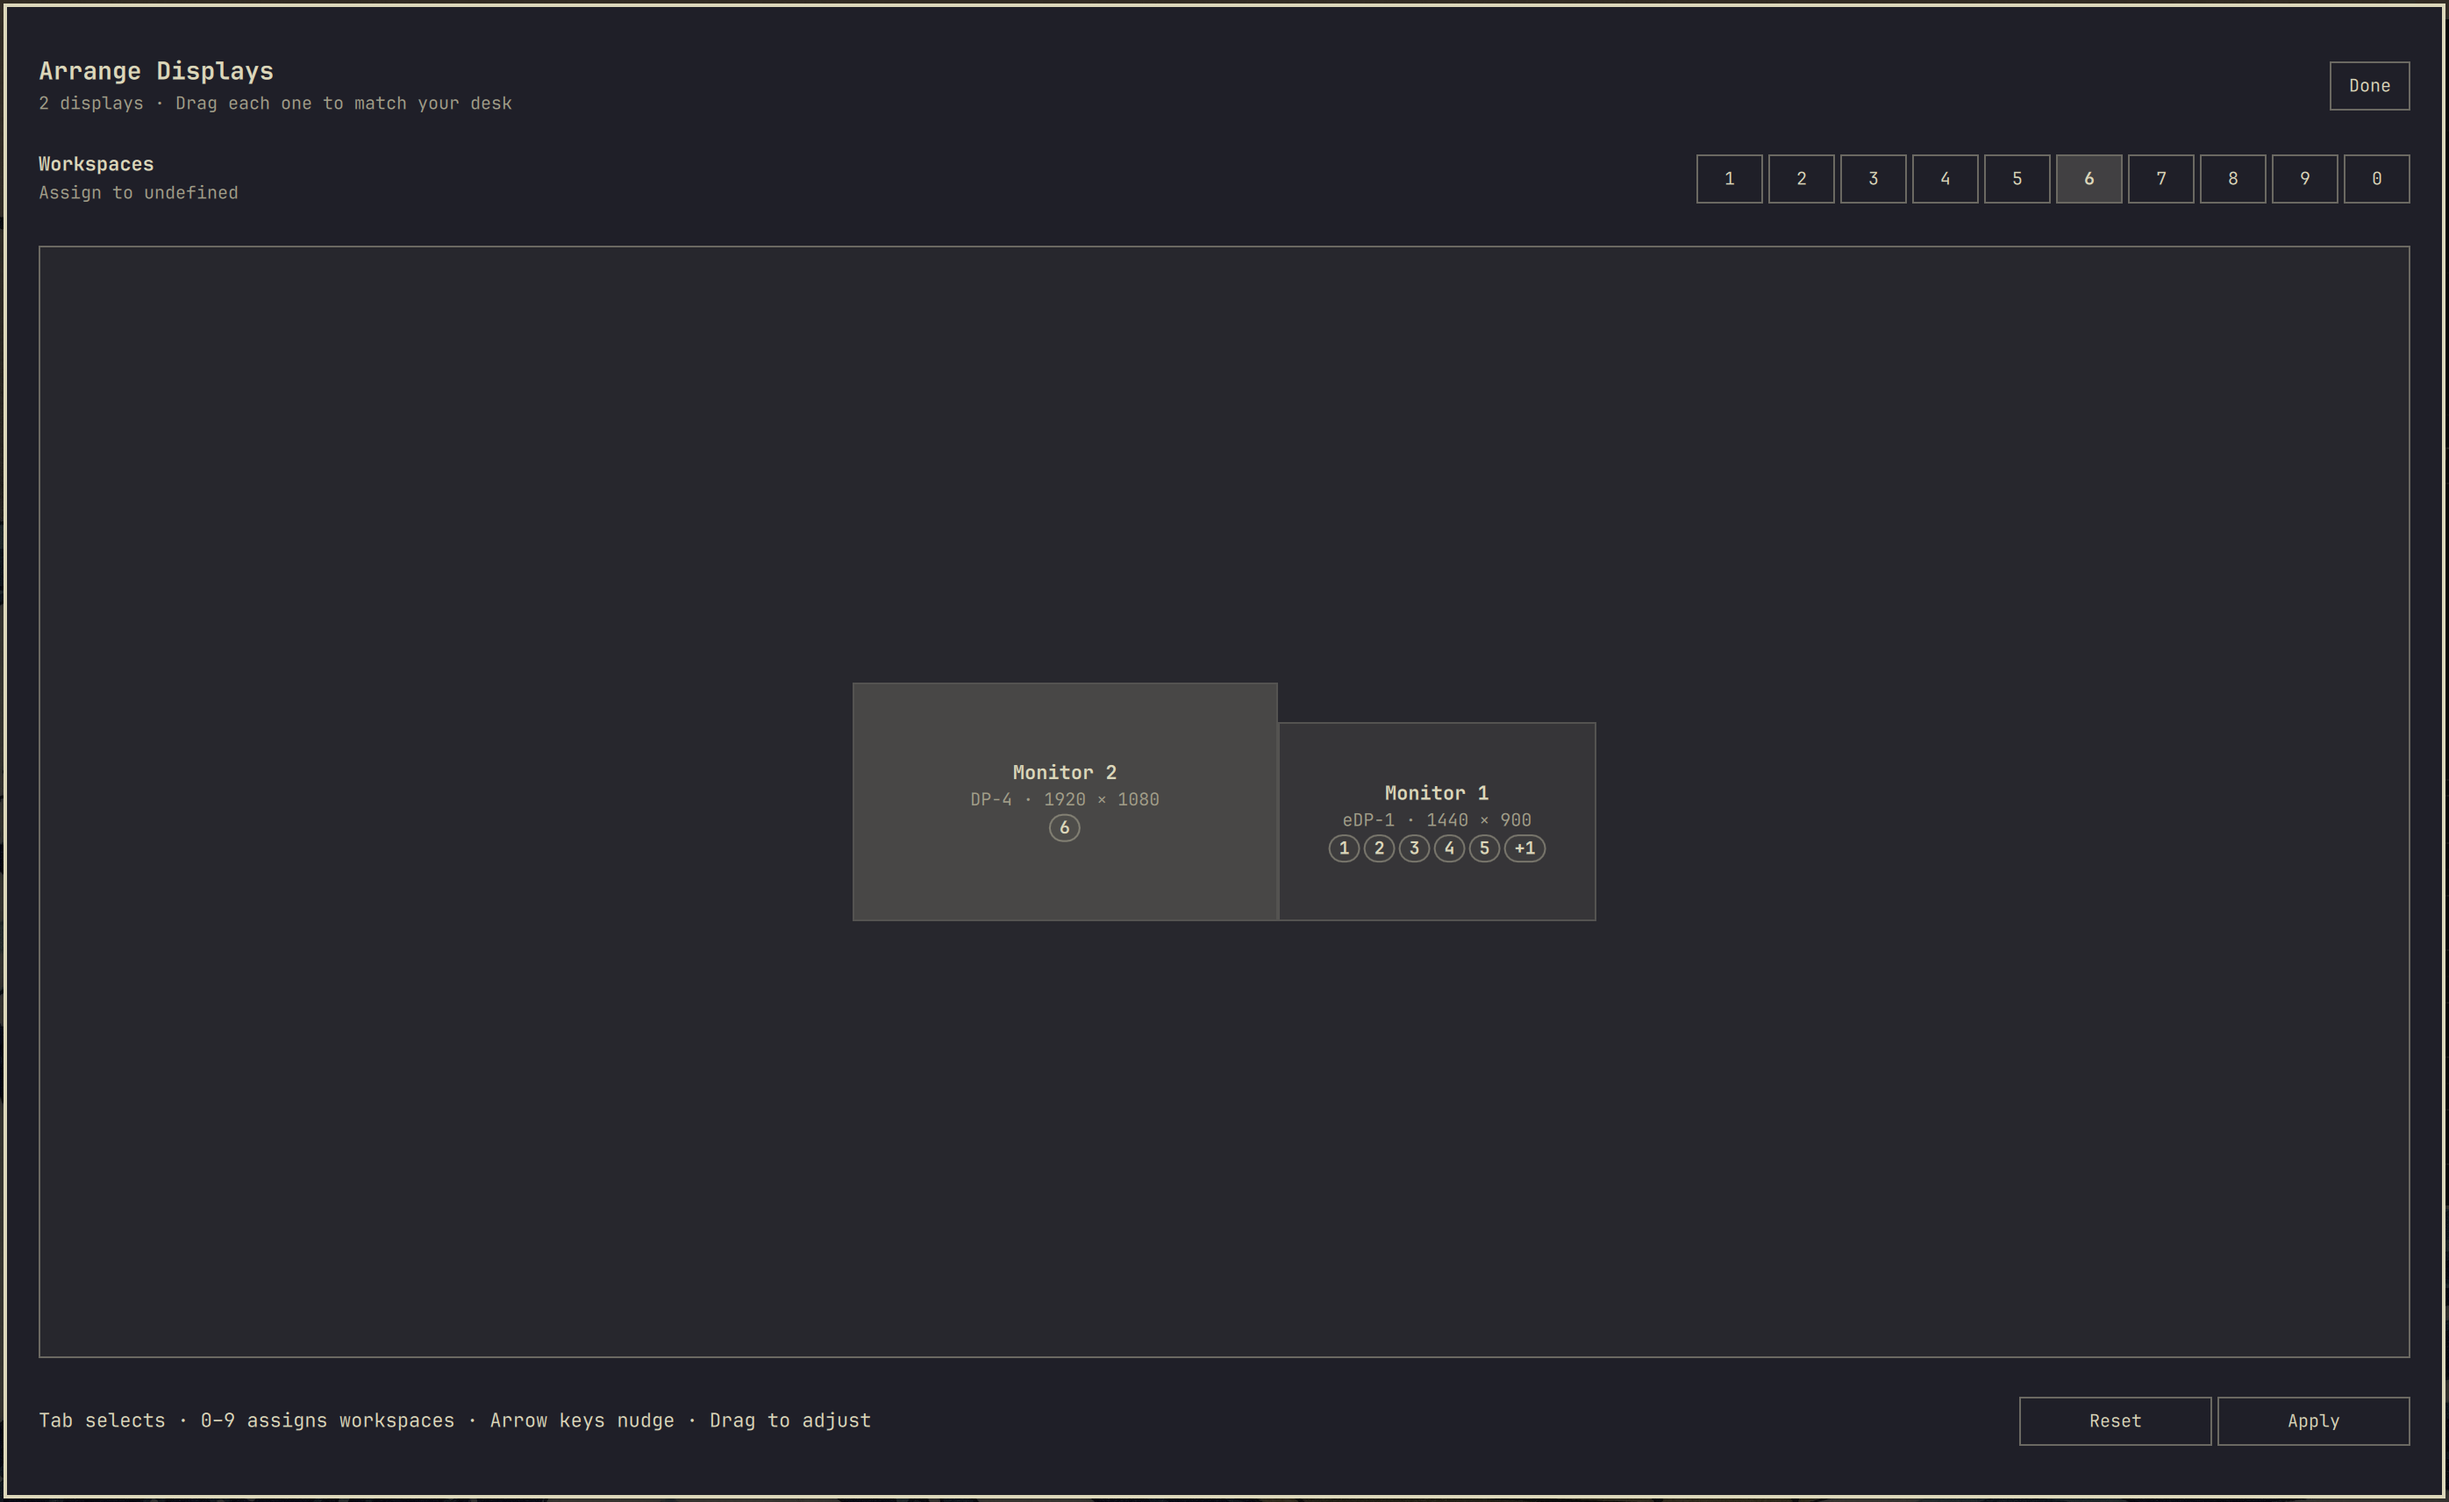
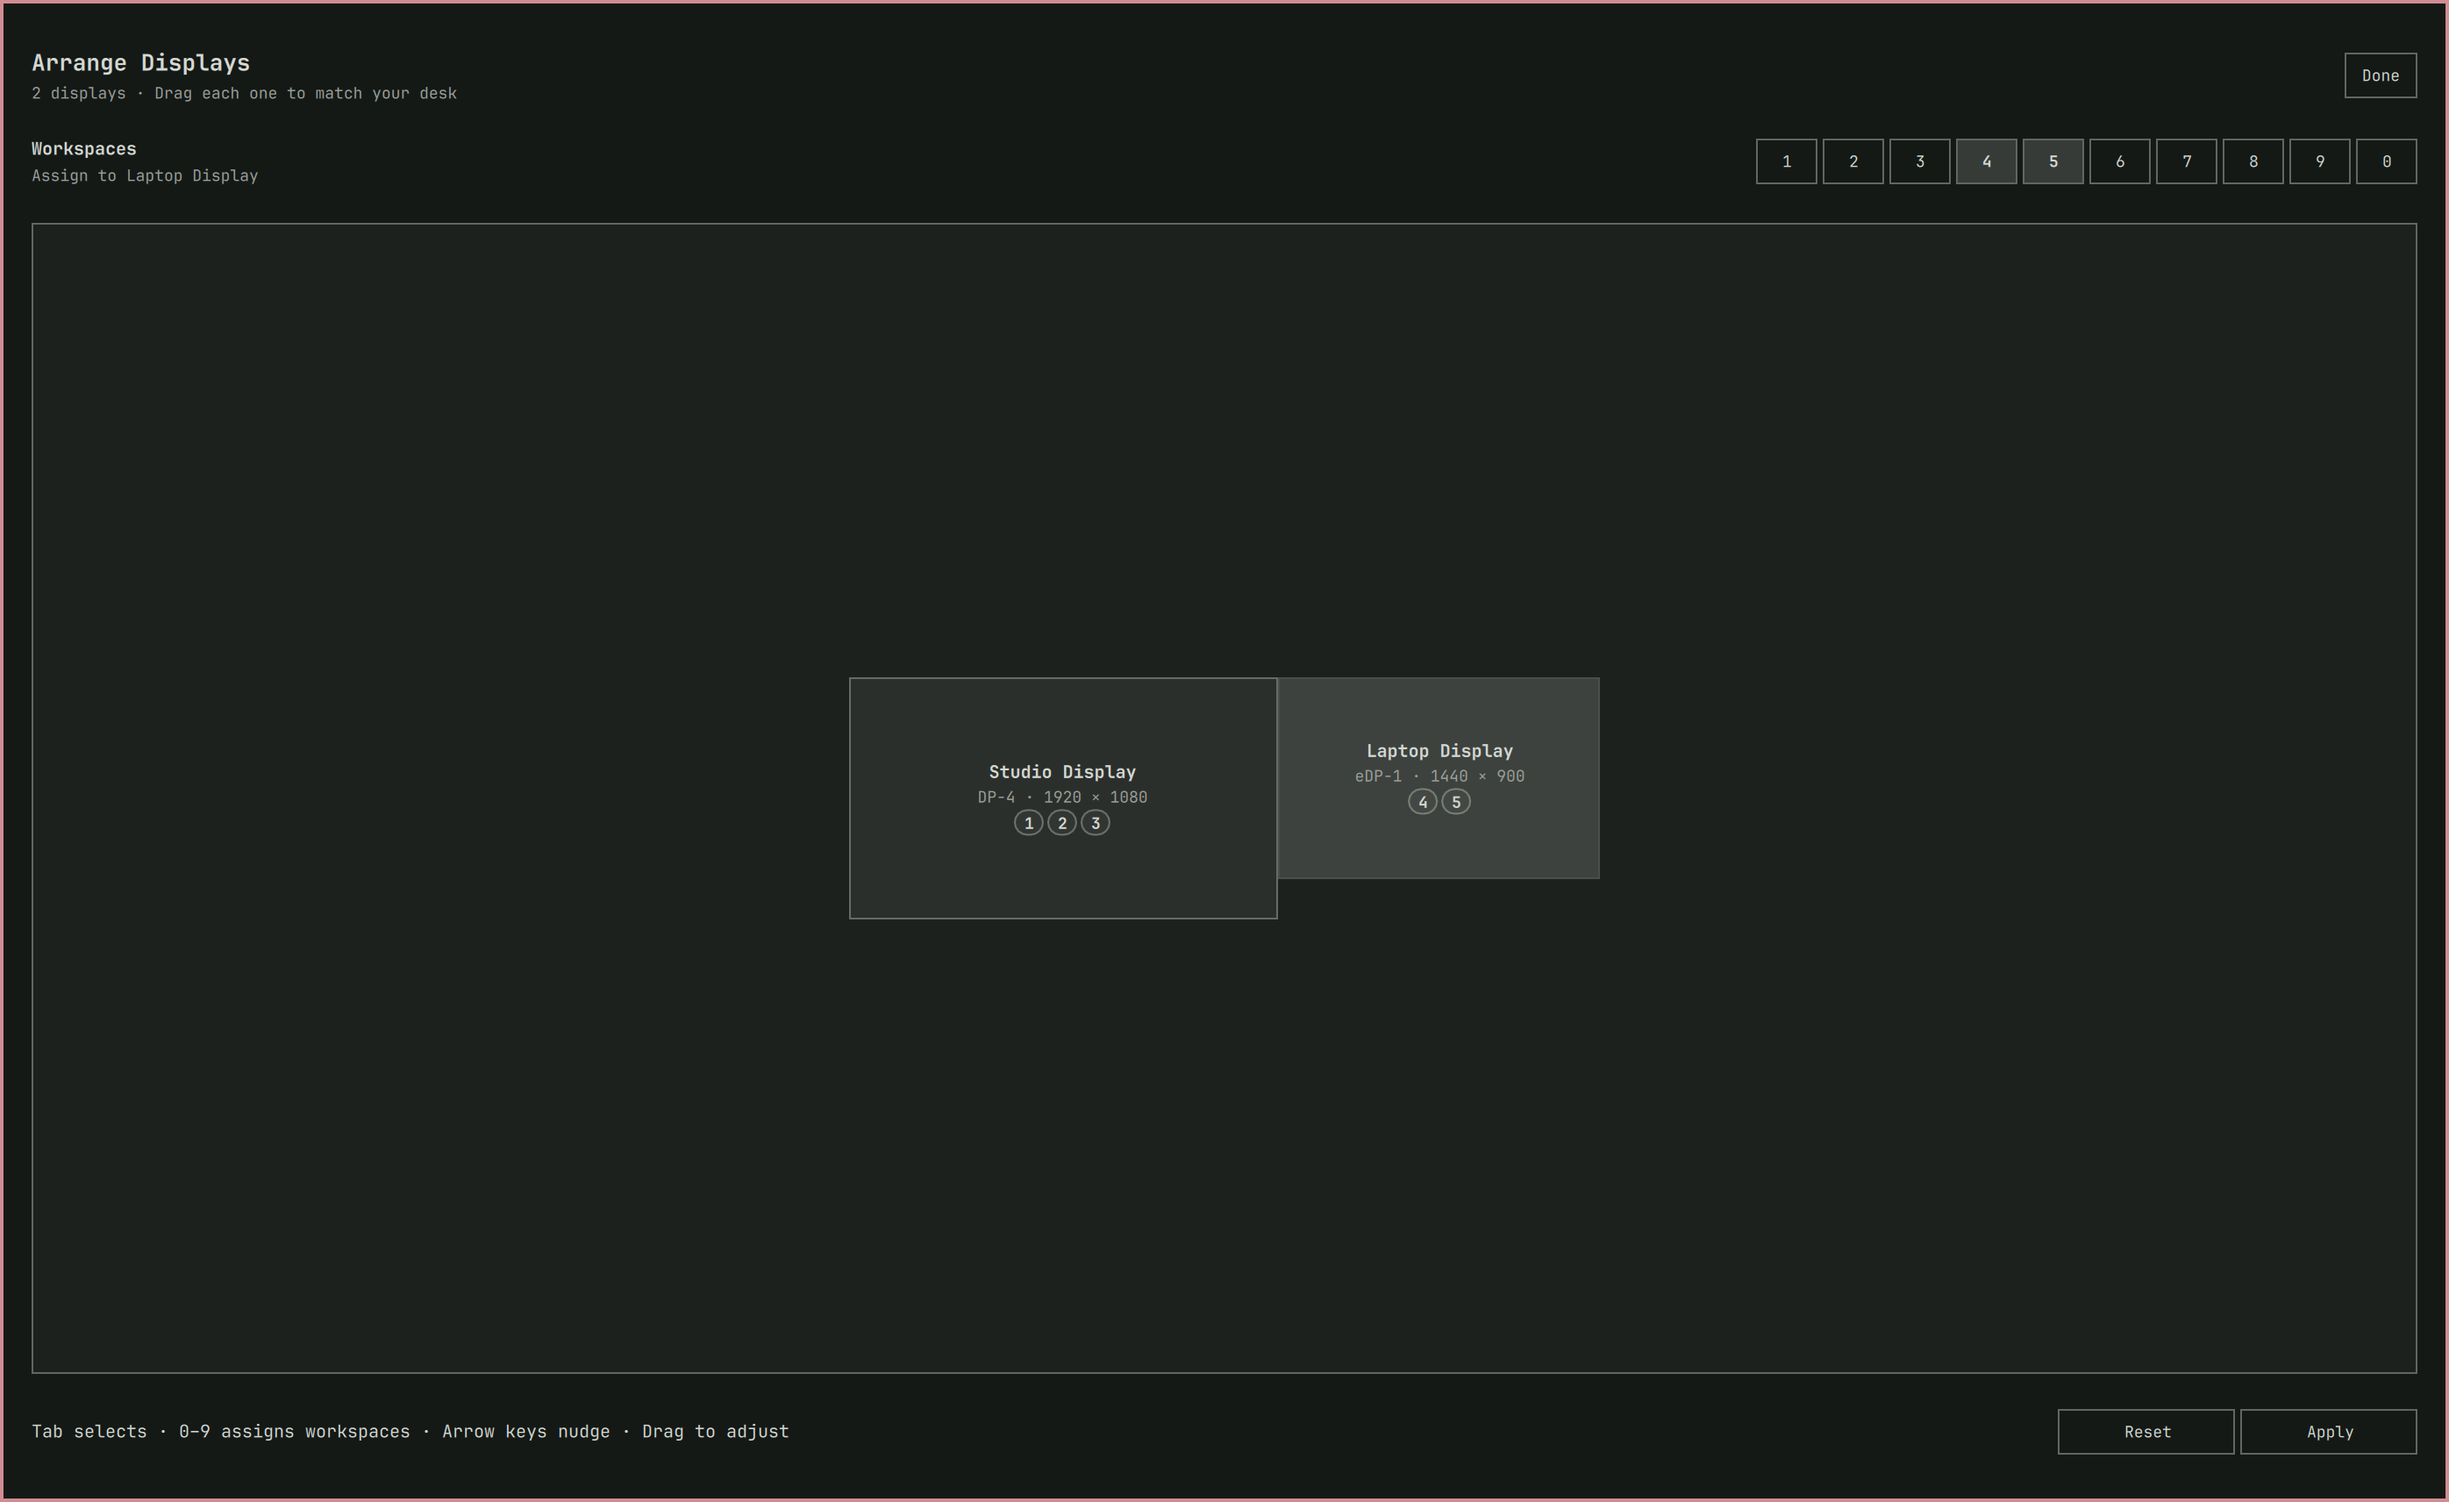
docs: showcase monitor studio interface

Changed region(s): [[0.0, 0.0, 1.0, 1.0], [0.3428, 0.4334, 0.6544, 0.6192], [0.8413, 0.9287, 0.966, 0.9597]]

diff --git a/README.md b/README.md
@@ -8,6 +8,22 @@ the physical desk, and assign numbered workspaces to a monitor.
 The plugin is derived from Omarchy's built-in `omarchy.monitor` panel and keeps
 its brightness, text-size, mirroring, and display-toggle controls.
 
+## Preview
+
+### Bar panel
+
+| Overview and arrangement | Profiles |
+| --- | --- |
+| ![Monitor Studio bar overview with mocked monitor names](preview-bar.png) | ![Monitor Studio profile management](preview-bar-profiles.png) |
+| Workspace assignment | Display settings |
+| ![Monitor Studio workspace assignment](preview-bar-workspaces.png) | ![Monitor Studio resolution, rotation, refresh rate, and scale settings](preview-bar-display-settings.png) |
+| Connected displays | |
+| ![Monitor Studio identify, refresh, and display controls](preview-bar-connected-displays.png) | |
+
+### Full-screen arrangement
+
+![Monitor Studio full-screen arrangement with mocked monitor names](preview.png)
+
 ## Features
 
 - Responsive drag-and-drop arrangement for one, two, three, or many displays
